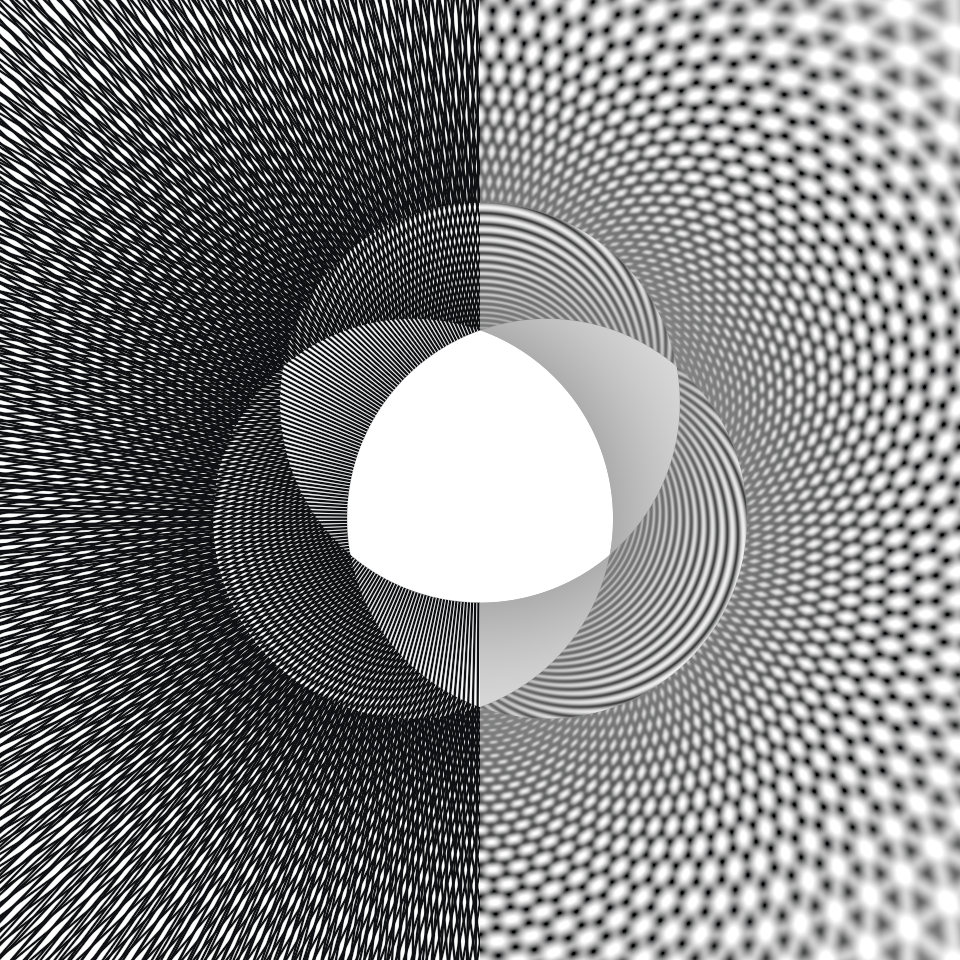
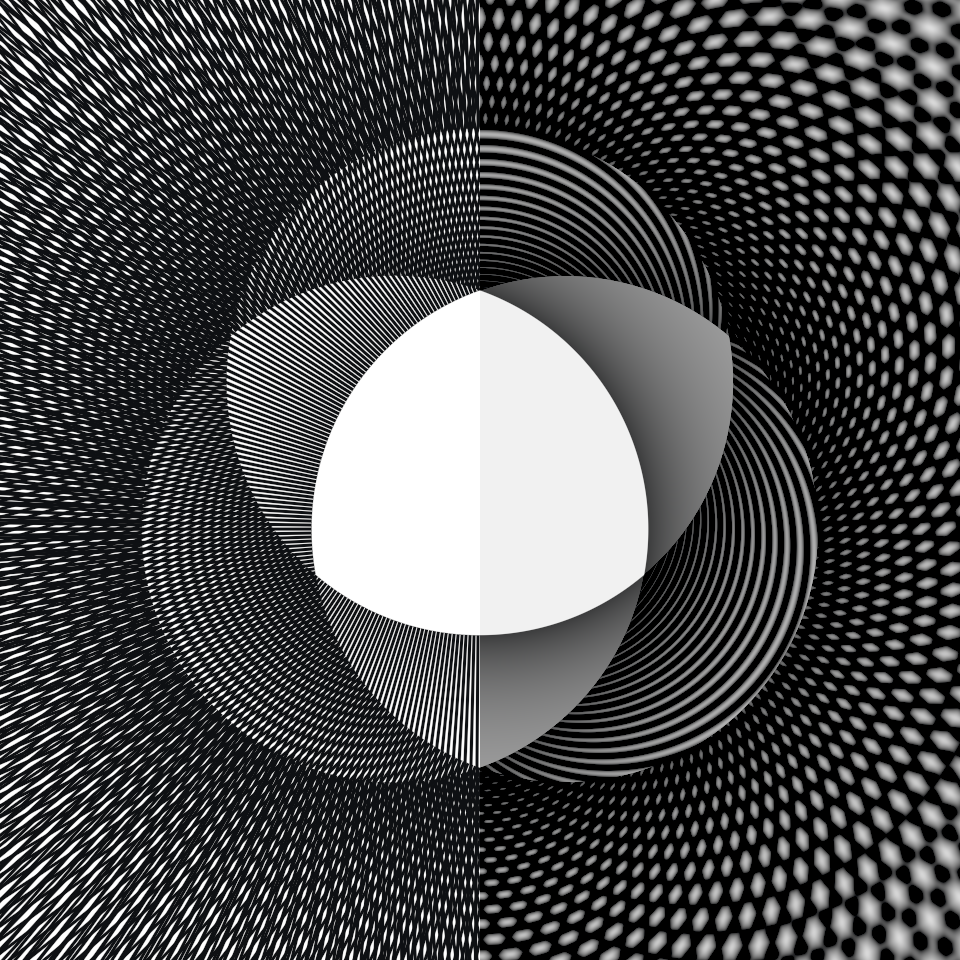
The fan-trio teaser panel steps in to the author's own framing — 565 world units across like its neighbours, the trefoil at half the frame — and takes the session's dials verbatim: contrast 1.8, exposure dropped 0.12, 52 taps. The gallery table and framing note follow.

diff --git a/paper/app-gallery.tex b/paper/app-gallery.tex
@@ -39,15 +39,15 @@ them.
   5 flow      & lines, $s{=}5$ & the same $+$ \textsc{swirl}, $a{=}3.5$, ext.\ $130$ & $3.6$ \\
   6 walking   & hexagons, $s{=}4$, $\varphi{=}2$, &---& $4.2$ \\
               & $\delta{=}(0.9,0.25)$, $\theta{=}0.025$ & & \\
-  7 fan trio  & \multicolumn{2}{l}{three fans, $200$ rays, start $150$, centers equilateral (side $100$); $64$ taps} & $2.4$ \\
+  7 fan trio  & \multicolumn{2}{l}{three fans, $200$ rays, start $150$, centers equilateral (side $100$); $52$ taps} & $1.8$ \\
   8 vortex    & circles, $s{=}8.3$, $t{=}3.5$, & the same, $\delta{=}(0,0.5)$, pose $-5.8^\circ$, & $3$ \\
     \ pair    & $\delta{=}(0,{-}0.5)$, pose $50^\circ$ & at $(9.61,-54.4)$ & \\
   \bottomrule
 \end{tabular}
 \end{center}
 
-\noindent Panels 2, 4 and 8 frame $565$, $565$ and $600$ world units across,
-panel 5 frames $480$, and panel 7 frames $716$. Panel 4 raises the tap count
+\noindent Panels 2, 4, 7 and 8 frame $565$, $565$, $565$ and $600$ world units
+across, and panel 5 frames $480$. Panel 4 raises the tap count
 because hairline lattice ink is a hit-or-miss integrand under the tap rule, so
 its residue falls like $1/\text{taps}$. Panel 7 is mirror-symmetric about
 the rule: one fan sits on the axis carrying the stack's single rotation,
@@ -55,7 +55,7 @@ snapped to $49.95^\circ$ so its ray set maps to itself under the mirror
 (the fan repeats every $0.9^\circ$, and $2\times49.95$ is an exact
 multiple); it is rendered through the tool's GPU pipeline rather than the
 CPU mirror, whose one-pair sum flip cannot keep a trio symmetric, and its
-envelope adds an exposure lift of $0.24$. Panel 8 is the instrument's
+envelope drops the exposure by $0.12$. Panel 8 is the instrument's
 opening scene, kept as its author
 exported it from \Moire{}; the scene file, camera included, is in the
 repository.
